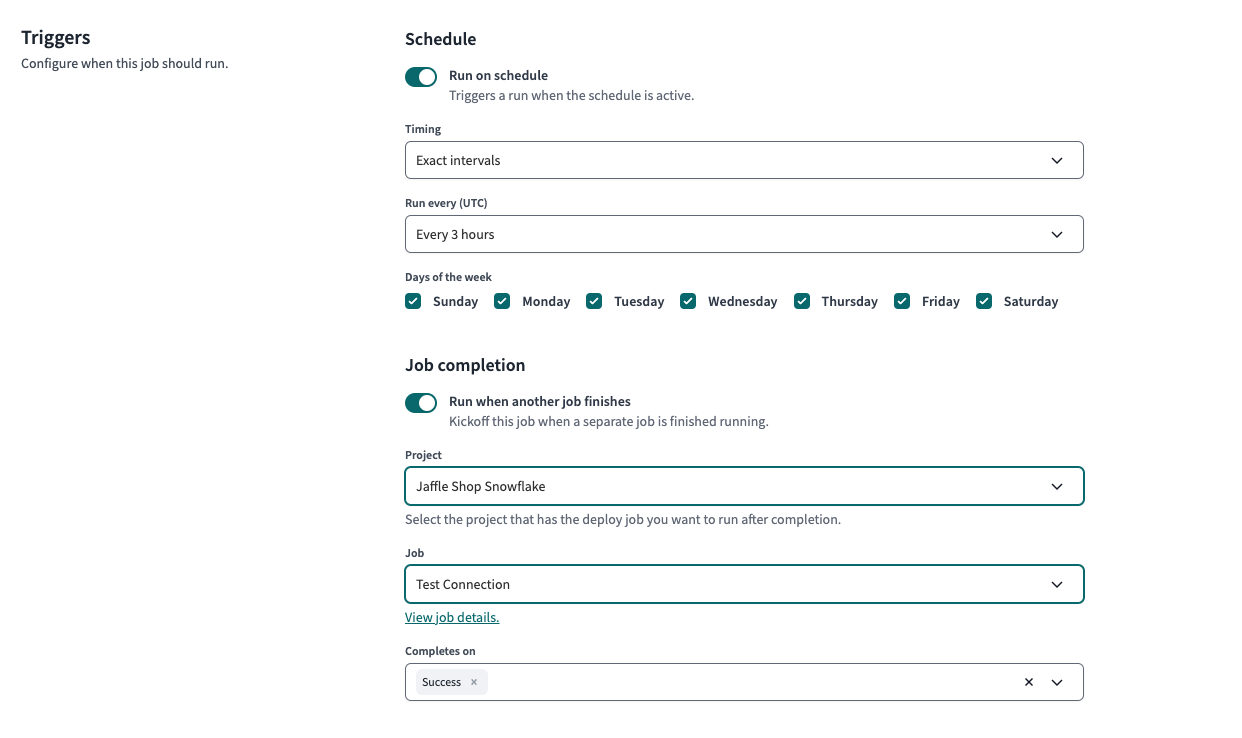
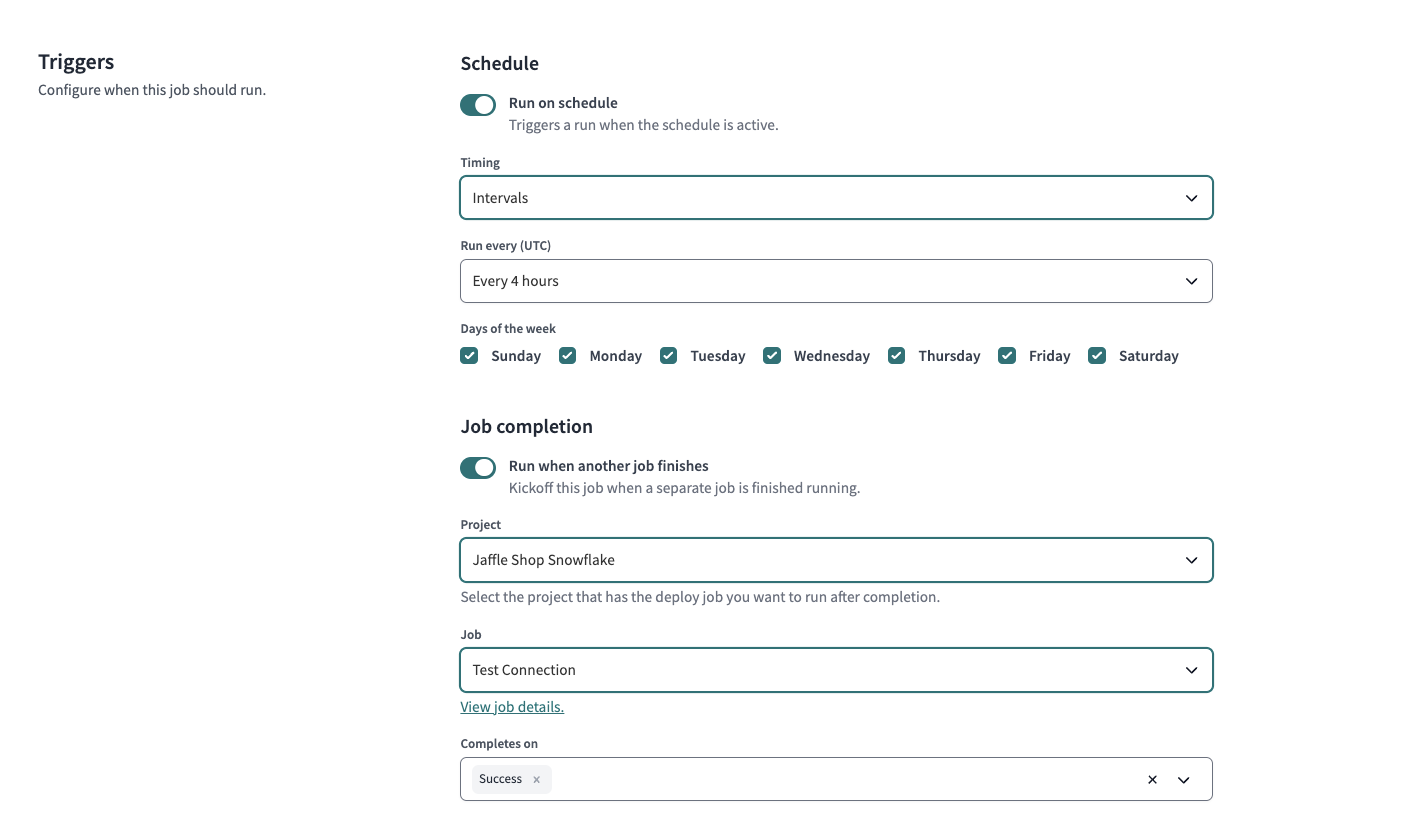
Intervals update

diff --git a/website/docs/docs/deploy/deploy-jobs.md b/website/docs/docs/deploy/deploy-jobs.md
@@ -37,8 +37,8 @@ You can create a deploy job and configure it to run on [scheduled days and times
     - **Run source freshness** &mdash; Enable this option to invoke the `dbt source freshness` command before running the deploy job. Refer to [Source freshness](/docs/deploy/source-freshness) for more details.
 4. Options in the **Triggers** section:
     - **Run on schedule** &mdash; Run the deploy job on a set schedule.
-        - **Timing** &mdash; Specify whether to [schedule](#schedule-days) the deploy job using **Hours of the day** that runs the job at specific times of day, **Exact intervals** that runs the job every specified number of hours, or **Cron schedule** that runs the job specified using [cron syntax](#cron-schedule).
-        - **Days of the week** &mdash; By default, it’s set to every day when **Hours of the day** or **Exact intervals** is chosen for **Timing**.
+        - **Timing** &mdash; Specify whether to [schedule](#schedule-days) the deploy job using **Intervals** that runs the job every specified number of hours, **Specific hours** that runs the job at specific times of day, or **Cron schedule** that runs the job specified using [cron syntax](#cron-schedule).
+        - **Days of the week** &mdash; By default, it’s set to every day when **Intervals** or **Specific hours** is chosen for **Timing**.
     - **Run when another job finishes** &mdash; Run the deploy job when another _upstream_ deploy [job completes](#trigger-on-job-completion).  
         - **Project** &mdash; Specify the parent project that has that upstream deploy job. 
         - **Job** &mdash; Specify the upstream deploy job. 
@@ -67,9 +67,9 @@ To set your job's schedule, use the **Run on schedule** option to choose specifi
 
 Under **Timing**, you can either use customizable hours for jobs that need to run frequently throughout the day or exact intervals for jobs that need to run at specific times:
 
-- **Exact intervals** &mdash; Use this option to set how often your job runs, in hours. Enter a number between 1 and 23 to represent the interval between job runs. For example, if you set it to **Every 2 hours**, the job will run every 2 hours from midnight UTC. This option is useful if you need to run jobs multiple times per day at regular intervals.
+- **Intervals** &mdash; Use this option to set how often your job runs, in hours. Enter a number between 1 and 23 to represent the interval between job runs. For example, if you set it to **Every 2 hours**, the job will run every 2 hours from midnight UTC. This option is useful if you need to run jobs multiple times per day at regular intervals.
 
-- **Hours of the day** &mdash; Use this option to set specific times when your job should run. You can enter a comma-separated list of hours (in UTC) when you want the job to run. For example, if you set it to `0,12,23,` the job will run at midnight, noon, and 11 PM UTC. This option is useful if you want your jobs to run at specific times of day and don't need them to run more frequently than once a day.
+- **Specific hours** &mdash; Use this option to set specific times when your job should run. You can enter a comma-separated list of hours (in UTC) when you want the job to run. For example, if you set it to `0,12,23,` the job will run at midnight, noon, and 11 PM UTC. This option is useful if you want your jobs to run at specific times of day and don't need them to run more frequently than once a day.
 
 :::info
 

diff --git a/website/docs/docs/deploy/job-scheduler.md b/website/docs/docs/deploy/job-scheduler.md
@@ -48,7 +48,7 @@ Before the job starts executing, the scheduler checks these conditions to determ
 
 If there is an available run slot and there isn't an actively running instance of the job, the scheduler will prepare the job to run in your cloud data platform. This prep involves readying a Kubernetes pod with the right version of dbt installed, setting environment variables, loading data platform credentials, and Git provider authorization, amongst other environment-setting tasks. The time it takes to prepare the job is displayed as **prep time** in the UI.
 
-Together, **wait time** plus **prep time** is the total time a run spends in the queue (or **Time in queue**).
+Together, **Wait time**, including jitter time, plus **Prep time** is the total time a run spends in the queue (or **Time in queue**). 
 
 <Lightbox src="/img/docs/dbt-cloud/deployment/deploy-scheduler.jpg" width="85%" title="An overview of a dbt Cloud job run"/>
 
